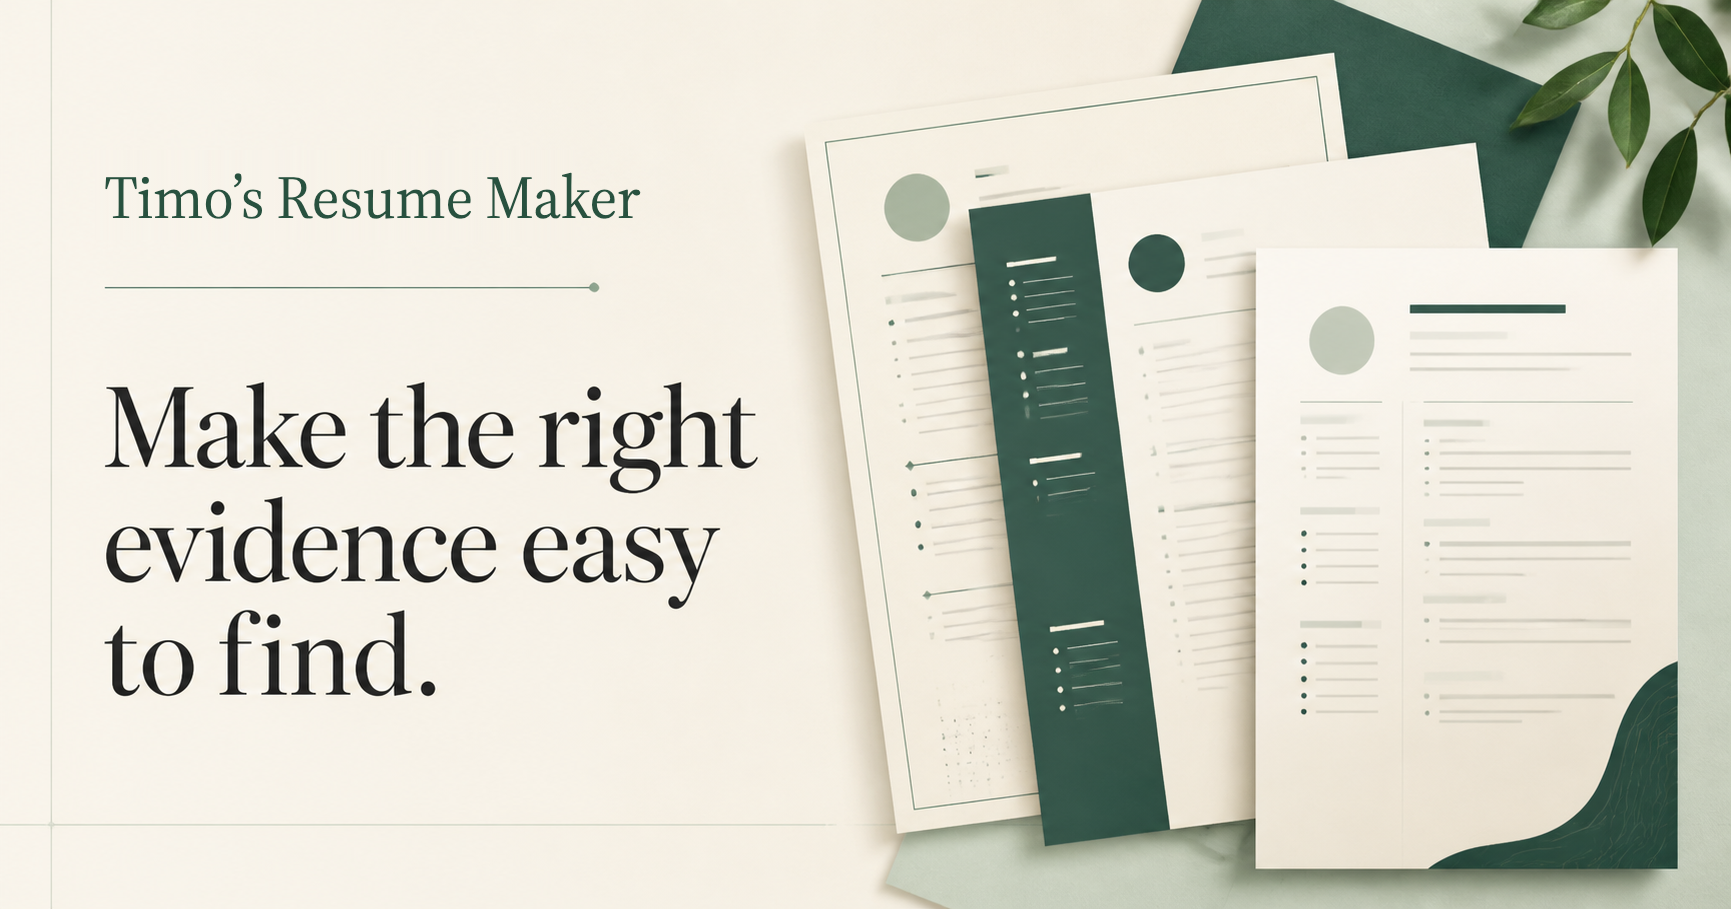
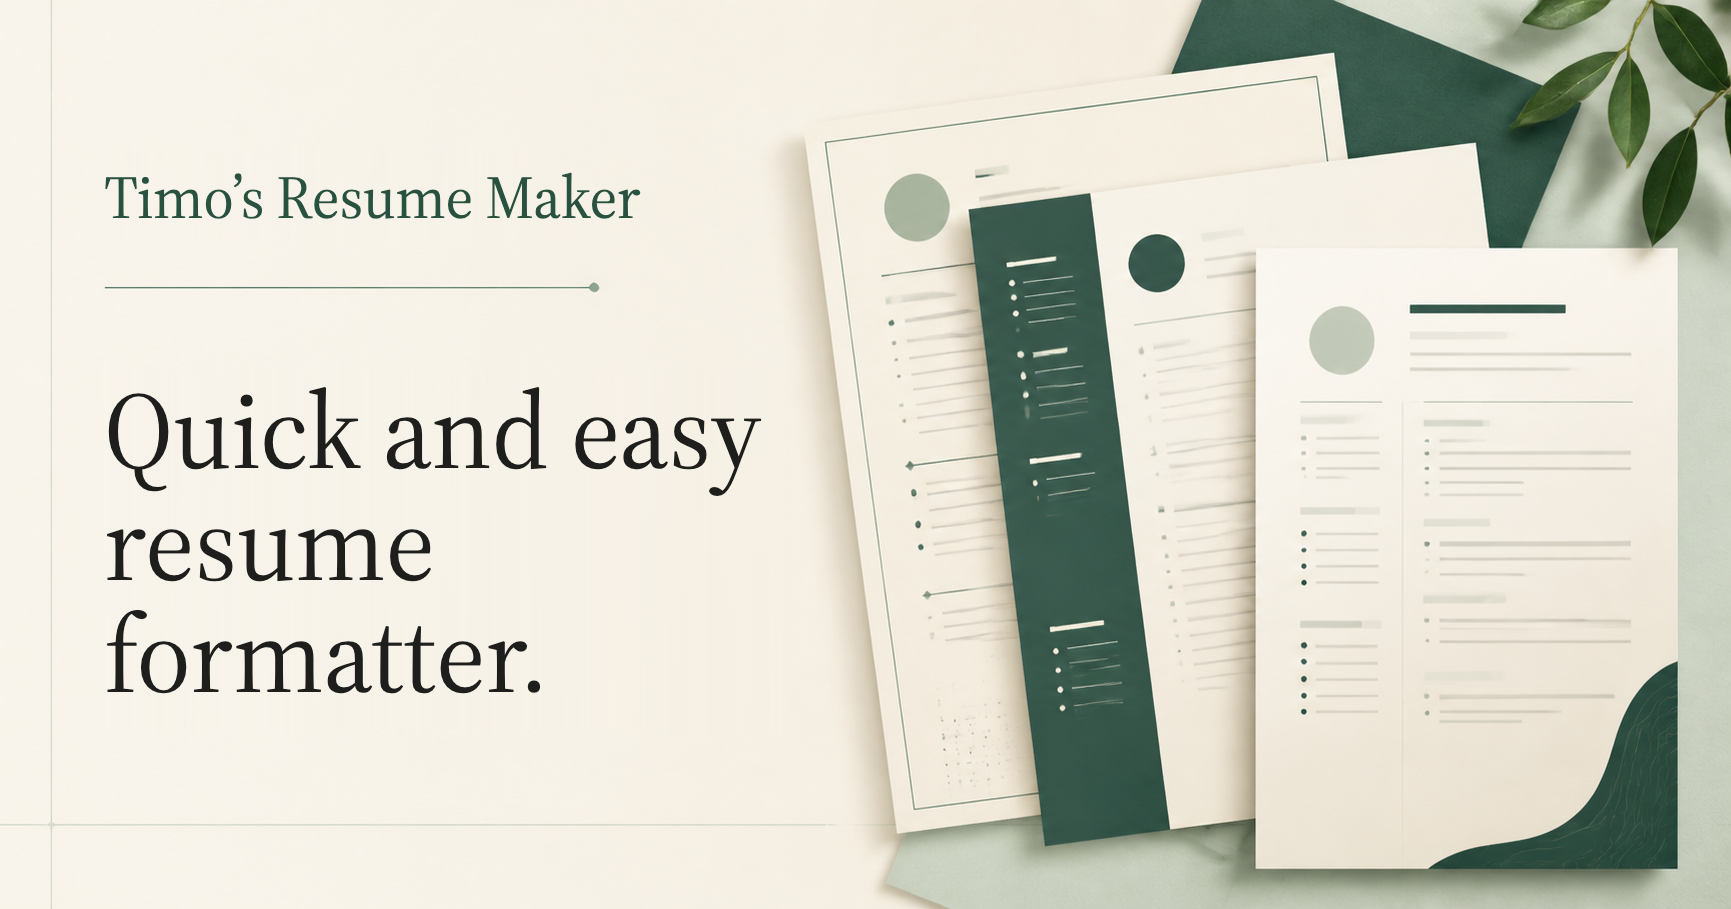
Update share image tagline and bust cached previews

Changed region(s): [[0.0624, 0.4312, 0.4367, 0.5545], [0.0624, 0.5545, 0.4055, 0.6777], [0.0624, 0.6777, 0.312, 0.7701]]

diff --git a/src/routes/__root.tsx b/src/routes/__root.tsx
@@ -15,7 +15,7 @@ export const Route = createRootRoute({
   head: ({ loaderData }) => {
     const title = 'Timo’s Resume Maker — Private, flexible resume studio'
     const description = 'Build, tailor, review, and export polished resumes across industries with a private local-first TanStack studio.'
-    const socialImage = `${loaderData?.origin ?? 'http://localhost:3000'}/og.png`
+    const socialImage = `${loaderData?.origin ?? 'http://localhost:3000'}/og.png?v=2`
     const canonicalUrl = loaderData?.canonicalUrl ?? 'http://localhost:3000/'
     return {
       meta: [
